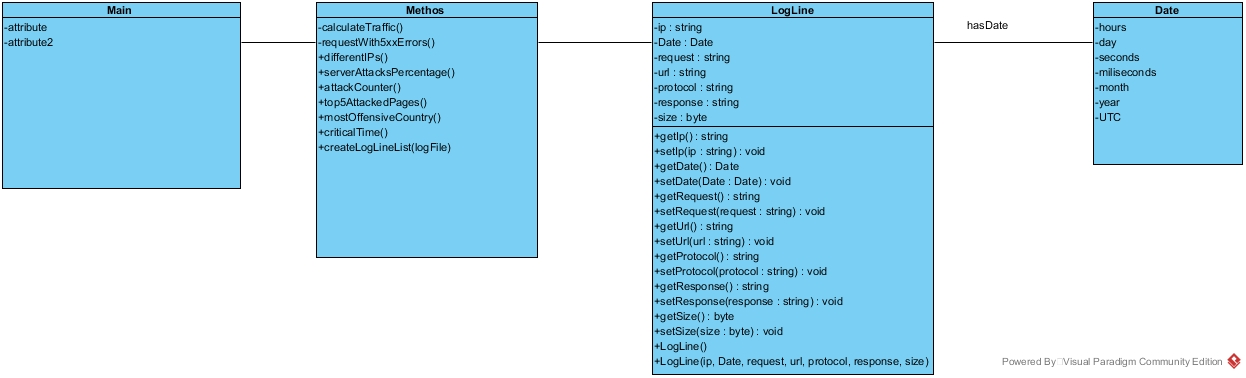
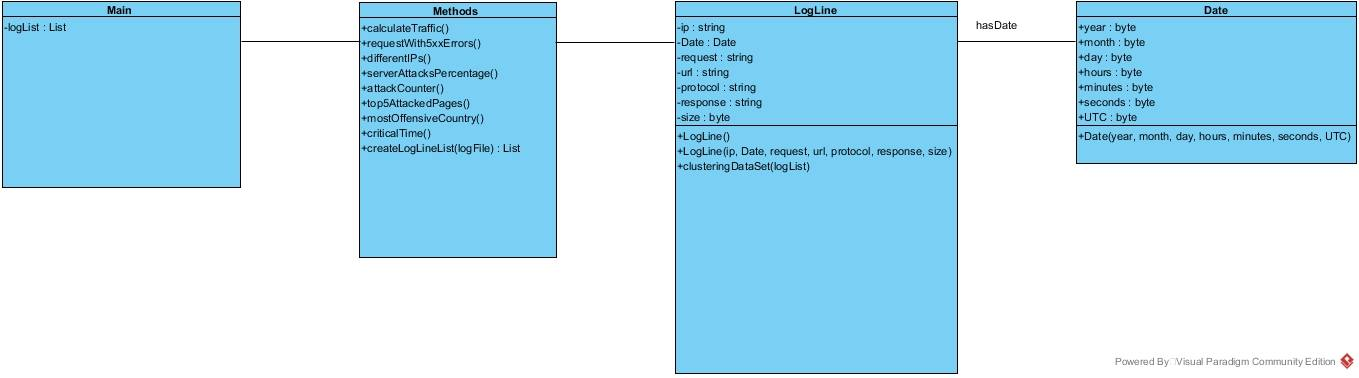
Date class and Update diagramm

Changed region(s): [[0.488, 0.0, 1.0, 1.0], [0.0, 0.0, 0.4575, 0.6984], [0.7929, 0.9312, 1.0, 0.9894]]

diff --git a/LogFilesModeling.py b/LogFilesModeling.py
@@ -1,17 +1,41 @@
 from sklearn.cluster import KMeans
 import numpy as np
 
+class Date:
+    def __init__(self,year,month,day,hours,minutes,seconds,UTC):
+        self.year = year
+        self.month = month
+        self.day = day
+        self.hours = hours
+        self.minutes =  minutes
+        self.seconds = seconds
+        self.UTC = UTC
+
 
 class LogLine:
-    def __init__(self, IP, date, requestType, requestPath, response):
+    def __init__(self, IP, date, requestType, requestPath, response,size):
         self.IP = IP
-        self.date = date
+        dateSplitted = date.split('/')
+        day = dateSplitted[0]
+        month = dateSplitted[1]
+        rest = dateSplitted[2]
+        restSplitted = rest.split(':')
+        year = restSplitted[0]
+        hours = restSplitted[1]
+        minutes = restSplitted[2]
+        restSplitted2 = restSplitted[3].split('+')
+        
+        seconds = restSplitted2[0]
+        UTC = restSplitted2[1]
+        self.Fdate = Date(year,month,day,hours,minutes,seconds,UTC)
         self.requestType = requestType
         self.requestPath = requestPath
         self.response = response
+        self.size = size
     
 
 
+    
 
 def readFile(filename):
     with open(filename,'r') as file:
@@ -20,11 +44,14 @@ def readFile(filename):
         for line in lines:
             splitted  = line.split()
             try:
-                del splitted[9],splitted[7],splitted[4],splitted[2],splitted[1]
+                UTC = splitted[4]
+                UTC = UTC.replace(']','')
+                del splitted[7],splitted[4],splitted[2],splitted[1]
                 splitted[2] = splitted[2].replace('\"','')
                 splitted[1] = splitted[1].replace('[','')
-                IP, date, requestType,requestPath,response = splitted[0],splitted[1],splitted[2],splitted[3],splitted[4]
-                simpleLine = LogLine(IP,date,requestType,requestPath,response)
+                fullDate =  splitted[1] + UTC
+                IP, date, requestType,requestPath,response,size= splitted[0],fullDate,splitted[2],splitted[3],splitted[4],splitted[5]
+                simpleLine = LogLine(IP,date,requestType,requestPath,response,size)
                 logFile.append(simpleLine)
             except:
                 print("heeeey errrorr")
@@ -70,7 +97,19 @@ def serverAttacksPercentage(logFile):
     for i in logFile:
         if(i.response=='404'):
             count+=1     
-    return count/len(logFile)  
+    return count/len(logFile)
+
+def createDataSet(logFile):
+    index = 0
+    dataList = []
+    for i in logFile:
+        dataList[index].append(i.IP)
+        dataList[index].append(i.date)
+        dataList[index].append(i.IP)
+        dataList[index].append(i.IP)
+        dataList[index].append(i.IP)
+        
+        
 
 logFile = []
 
